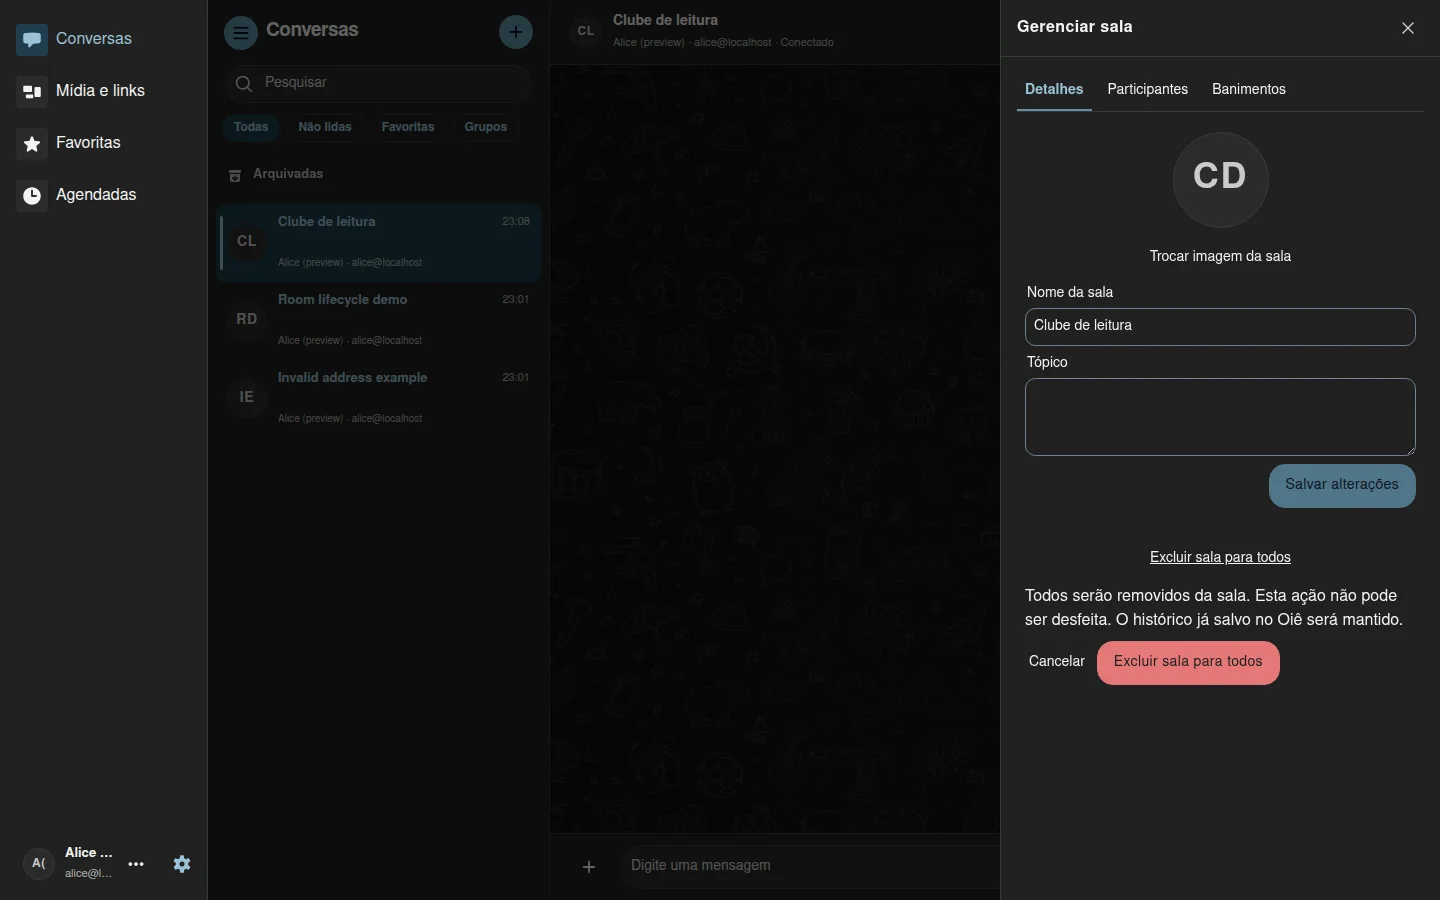
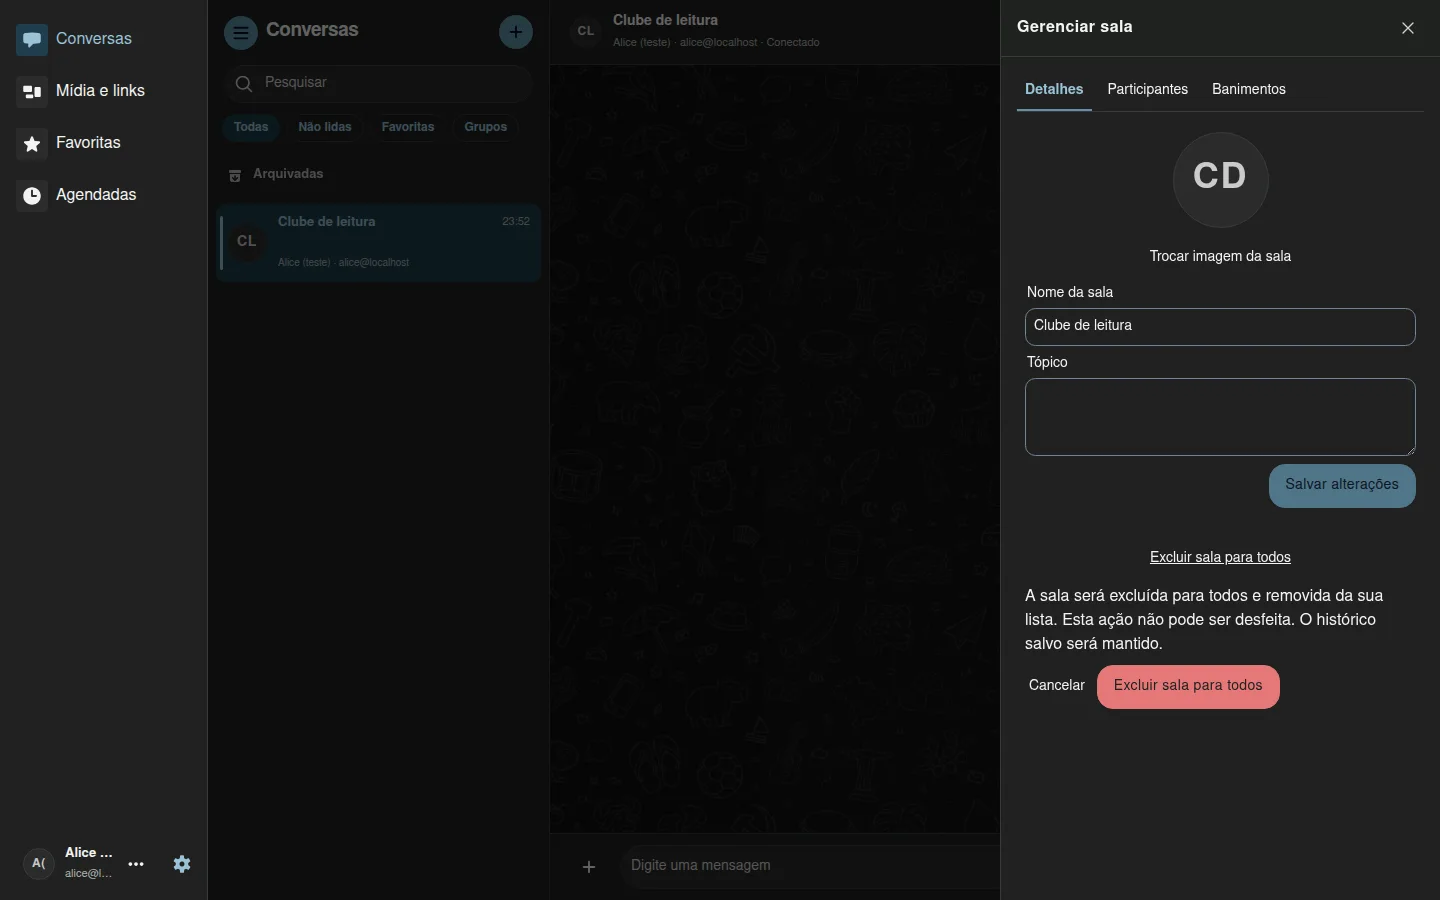
Documentar a remoção da sala excluída da lista

diff --git a/README.md b/README.md
@@ -71,6 +71,10 @@ A remoção de conversas diretas e o comando
 `oiectl conversations remove-direct-from-chats` foram conferidos na revisão de
 desenvolvimento `c9f670574b3ca067ff65305f45eef54d784e4878` do Oiê.
 
+A remoção da sala das listas da conta que confirma sua exclusão foi conferida
+na revisão de desenvolvimento `e81d0d535f2eb5cb2e9f857efd4c14de8131861e` do Oiê. A captura da confirmação
+em pt-BR usa uma sala fictícia.
+
 ### Referência do banco de dados
 
 O catálogo e os diagramas registram a [revisão dd2e610 do Oiê](https://github.com/araihu/oie/tree/dd2e6106e56f34c86a1b74c6dd989ecdbd350bc6), fixada em `scripts/database-docs/oie-revision`. Para atualizar a referência, coloque nesse arquivo o SHA completo do Oiê que será documentado. Com Python 3 com SQLite e o [tbls v1.96.1](https://github.com/k1LoW/tbls/releases/tag/v1.96.1) no PATH, rode a partir da raiz do site.

diff --git a/content/docs/manual/index.md b/content/docs/manual/index.md
@@ -117,8 +117,10 @@ formulário aberto para você corrigir ou tentar de novo.
   disponíveis. Para trazê-la de volta, use **Entrar na sala** e informe o endereço.
 - Se você for proprietário, entre na sala e vá a **Mais opções → Gerenciar
   sala → Detalhes → Excluir sala para todos**. Confirme para excluir a sala
-  do servidor e remover todos os participantes. O histórico já salvo no Oiê
-  será mantido.
+  do servidor e remover todos os participantes. Quando o servidor confirmar,
+  a sala sai de **Conversas** e **Arquivadas** da conta que pediu a exclusão.
+  O histórico salvo será mantido. Outros participantes podem remover a sala
+  das próprias listas.
 
 [![Confirmação para remover uma sala das conversas, com as opções Cancelar e Remover das conversas.](imagens/remover-sala.webp)](imagens/remover-sala-original.webp)
 
